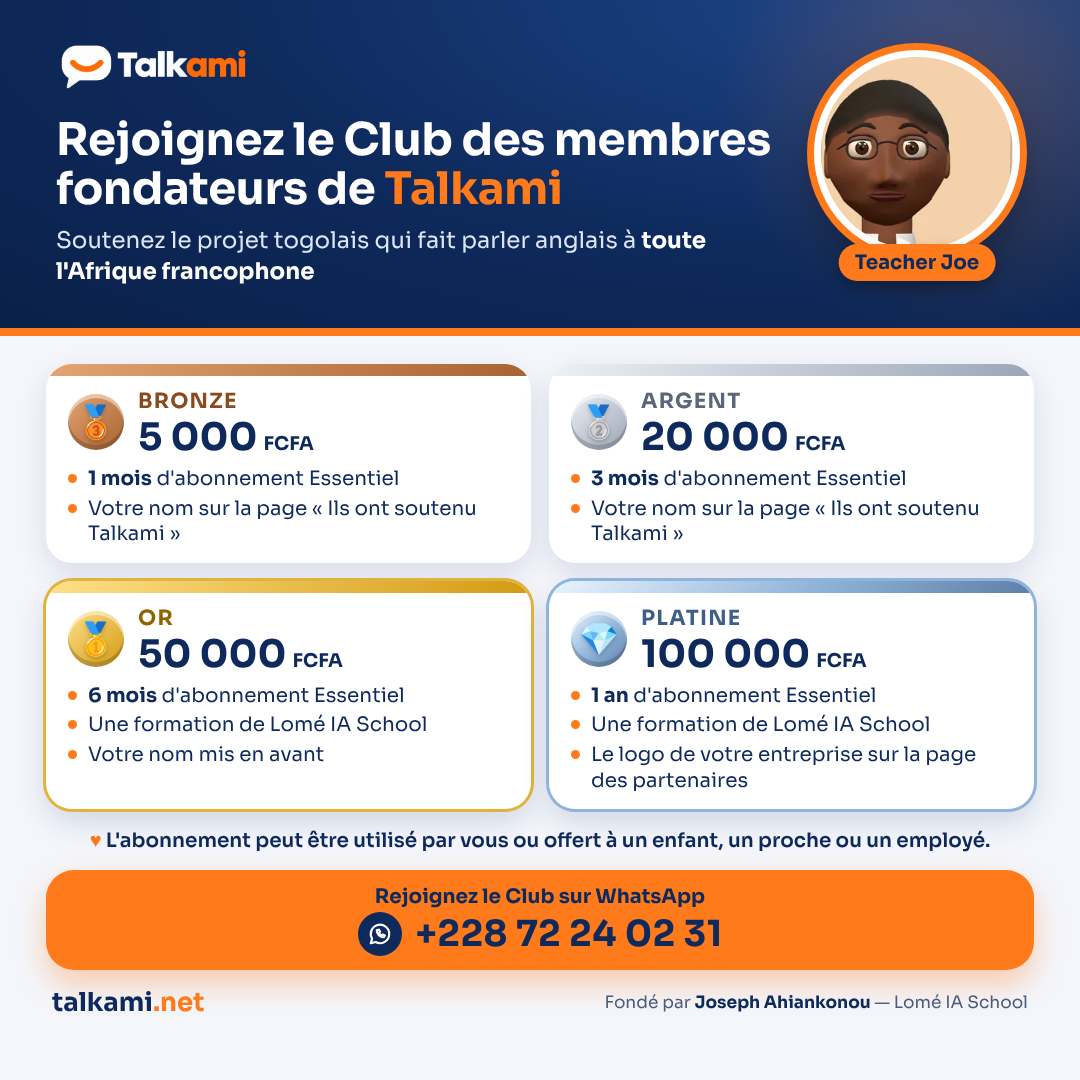
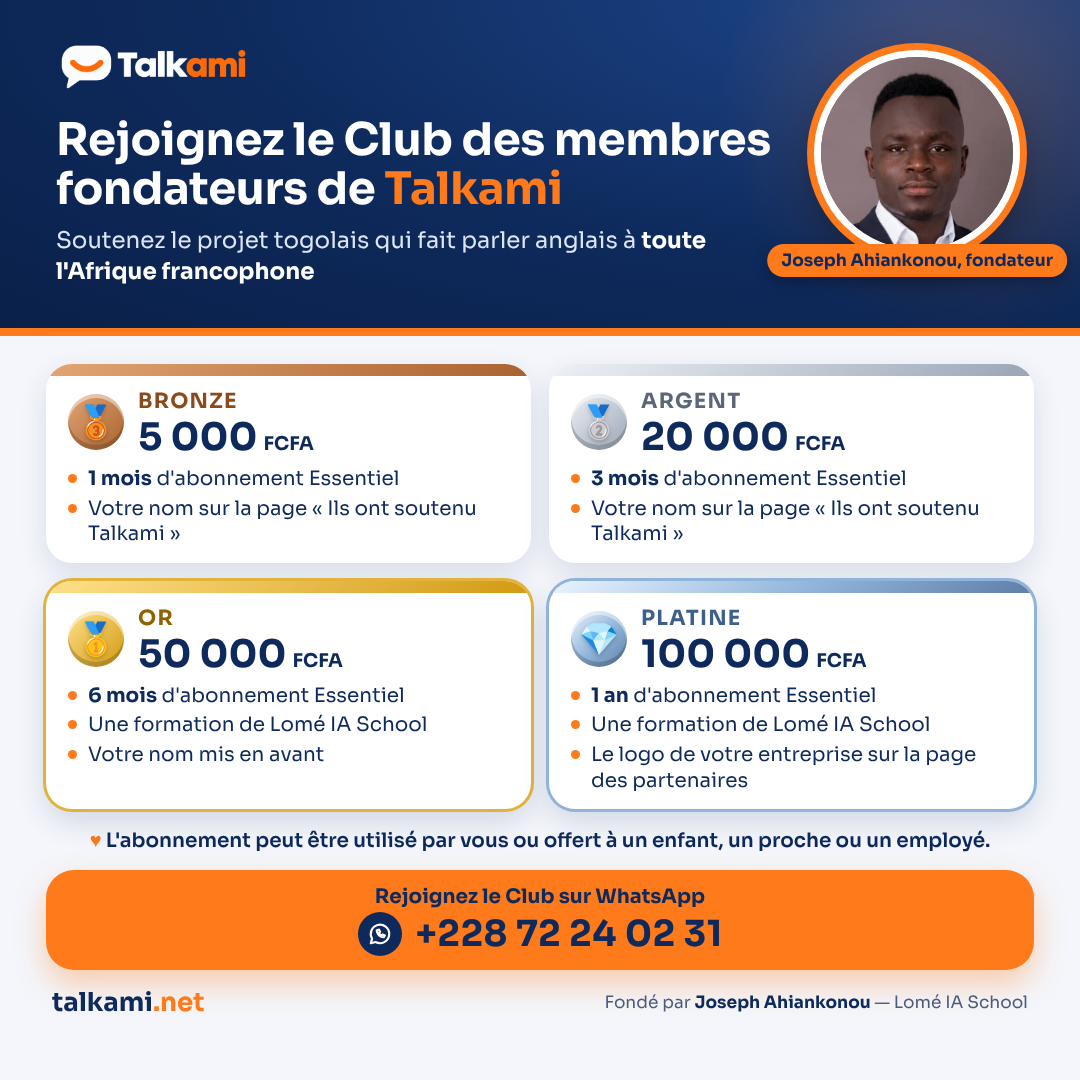
Affiche du Club : photo du fondateur à la place de Teacher Joe
- Même cercle orange, même emplacement ; visage centré, ni coupé ni
  déformé (photo recadrée en carré : tools/affiches/fondateur-joseph-ahiankonou.jpg).
- Étiquette « Joseph Ahiankonou, fondateur » sous la photo.
- Carré et vertical refaits, le reste inchangé.

Claude-Session: https://claude.ai/code/session_01Y94TMhTGajBV7rdmL3adzq

Changed region(s): [[0.7028, 0.0306, 1.0, 0.275]]

diff --git a/tools/affiches/club-fondateurs.html b/tools/affiches/club-fondateurs.html
@@ -25,8 +25,8 @@ h1 { font-weight: 800; line-height: 1.08; letter-spacing: -.01em; margin-top: 18
 h1 .accent { color: var(--orange); }
 .sub { margin-top: 16px; font-size: 27px; line-height: 1.35; font-weight: 400; color: #DCE5F5; }
 .sub b { color: #fff; font-weight: 700; }
-.teacher { position: absolute; border-radius: 50%; overflow: hidden; border: 7px solid #fff; box-shadow: 0 0 0 7px var(--orange), 0 18px 40px rgba(0,0,0,.35); background: #F6D9B5; }
-.teacher img { width: 100%; height: 100%; object-fit: cover; transform-origin: 63% 6.6%; transform: scale(2.2); }
+.teacher { position: absolute; border-radius: 50%; overflow: hidden; border: 7px solid #fff; box-shadow: 0 0 0 7px var(--orange), 0 18px 40px rgba(0,0,0,.35); background: #6E6466; }
+.teacher img { width: 100%; height: 100%; object-fit: cover; display: block; }
 .teacher-name { position: absolute; background: var(--orange); color: var(--navy); font-weight: 800; font-size: 20px; padding: 6px 16px; border-radius: 999px; white-space: nowrap; transform: translateX(-50%); box-shadow: 0 6px 14px rgba(0,0,0,.25); }
 
 /* Cartes des niveaux */
@@ -72,7 +72,7 @@ h1 .accent { color: var(--orange); }
 .carre h1 { font-size: 45px; max-width: 720px; margin-top: 22px; }
 .carre .sub { font-size: 23px; max-width: 720px; margin-top: 12px; }
 .carre .teacher { width: 206px; height: 206px; right: 60px; top: 50px; }
-.carre .teacher-name { left: calc(1080px - 60px - 103px); top: 244px; }
+.carre .teacher-name { left: calc(1080px - 60px - 103px); top: 244px; font-size: 17px; padding: 6px 14px; }
 .carre .tiers { gap: 18px; padding: 28px 46px 0; }
 .carre .tier { padding: 24px 22px 16px; }
 .carre .tier-top { gap: 14px; }
@@ -133,8 +133,8 @@ h1 .accent { color: var(--orange); }
         <div class="kicker">Club des membres fondateurs</div>
         <h1>Rejoignez le Club des membres fondateurs de <span class="accent">Talkami</span></h1>
         <p class="sub">Soutenez le projet togolais qui fait parler anglais à <b>toute l'Afrique&nbsp;francophone</b></p>
-        <div class="teacher"><img src="../../public/images/teacher-joe.webp" alt="Teacher Joe"></div>
-        <div class="teacher-name">Teacher Joe</div>
+        <div class="teacher"><img src="fondateur-joseph-ahiankonou.jpg" alt="Joseph Ahiankonou, fondateur de Talkami"></div>
+        <div class="teacher-name">Joseph Ahiankonou, fondateur</div>
     </header>
 
     <section class="tiers">
